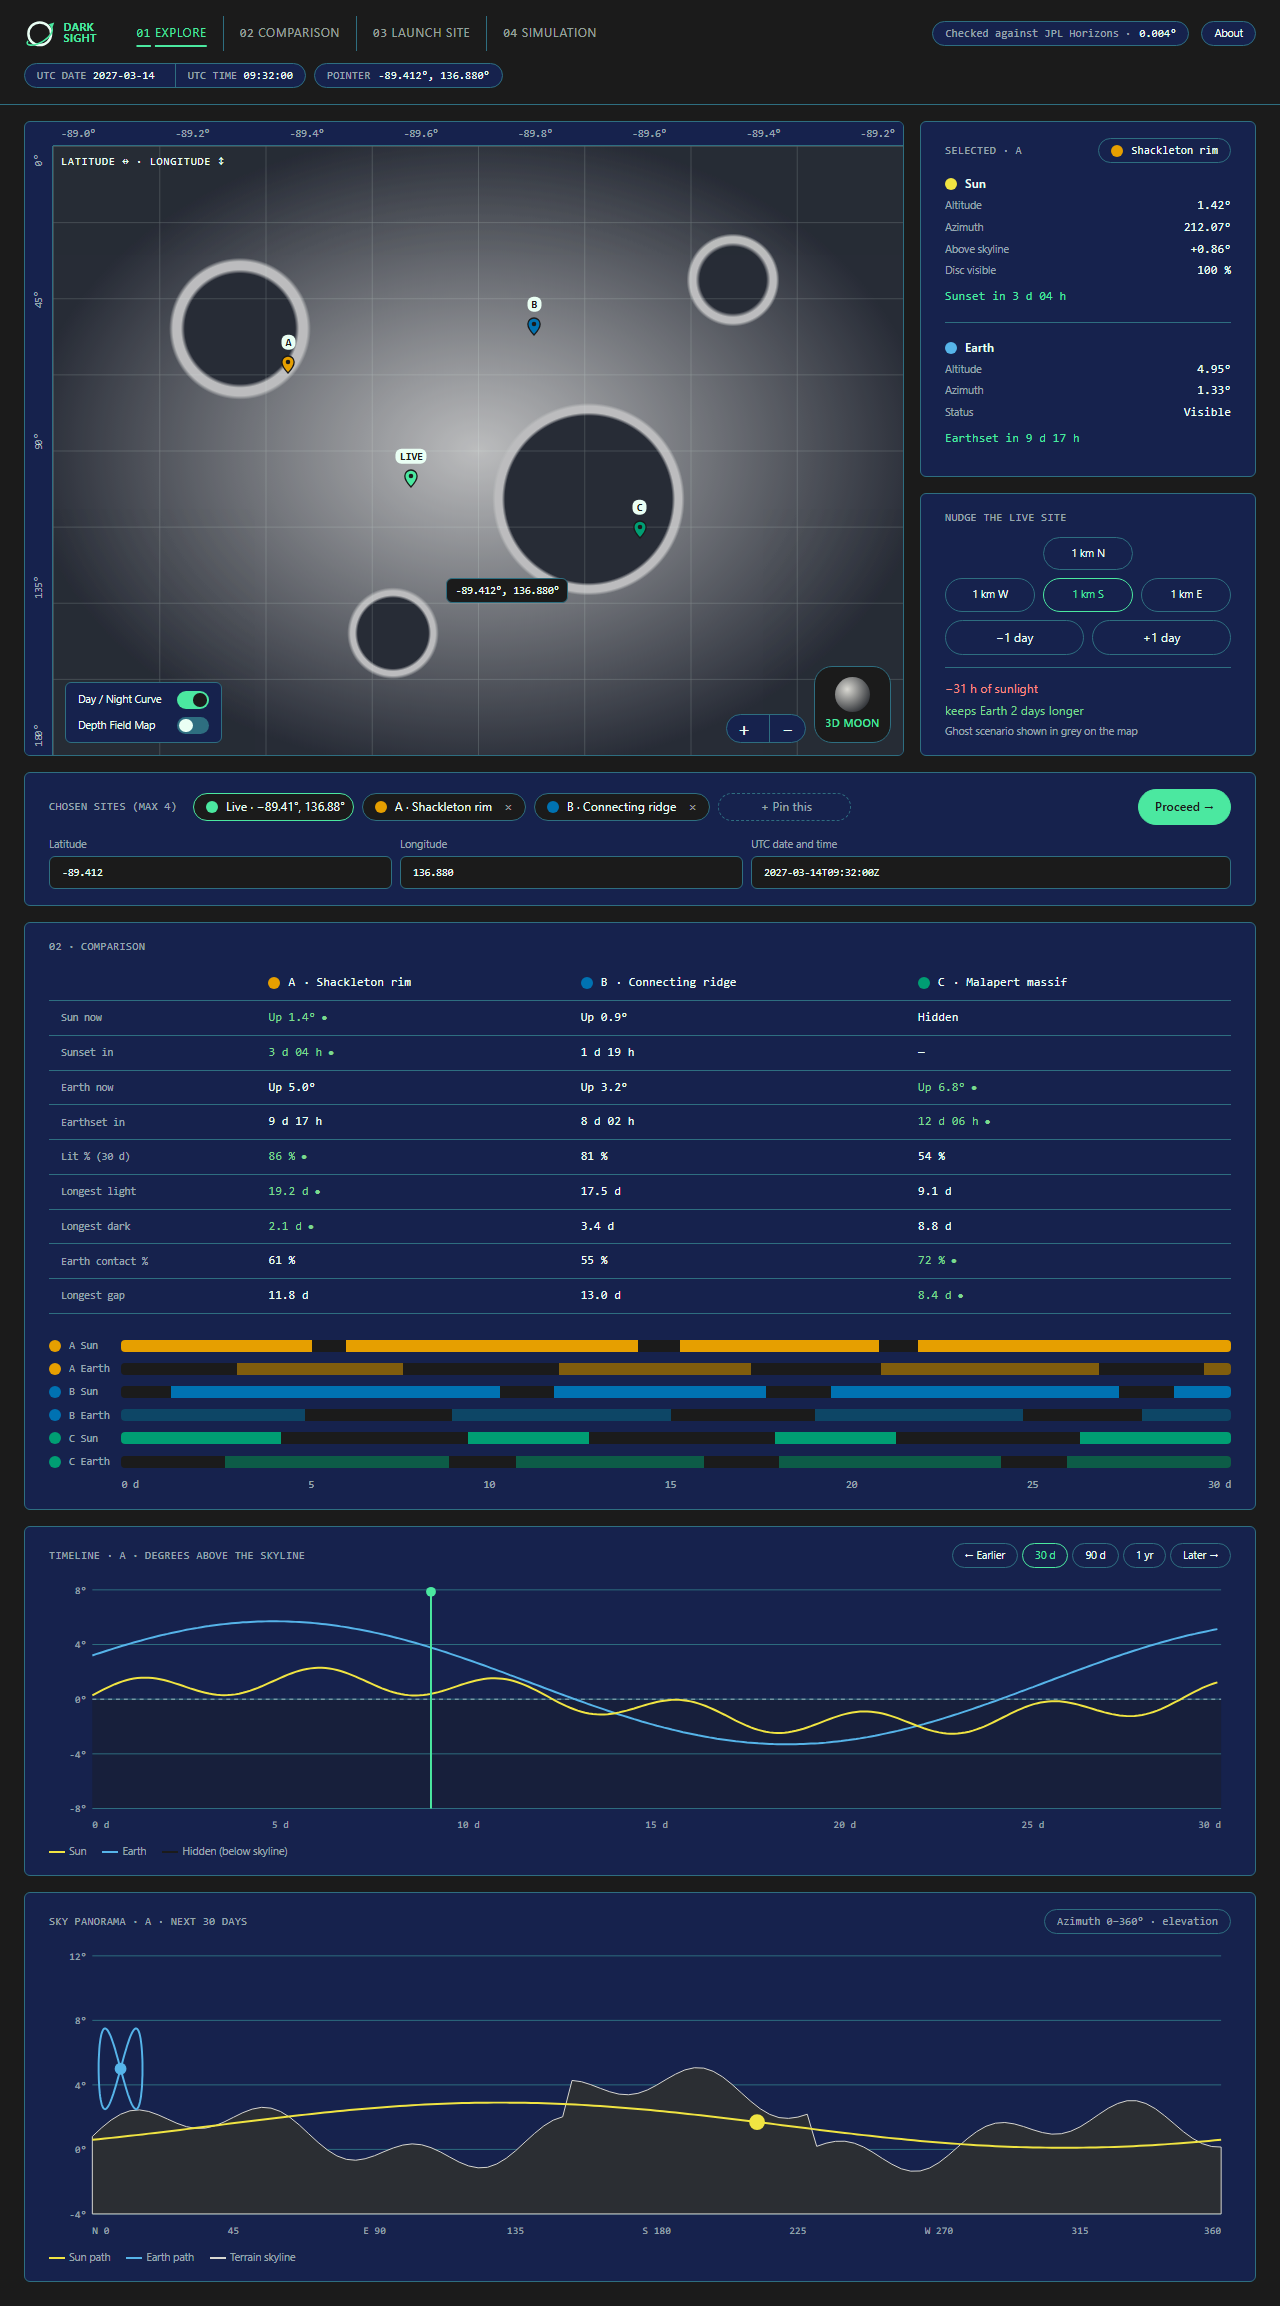
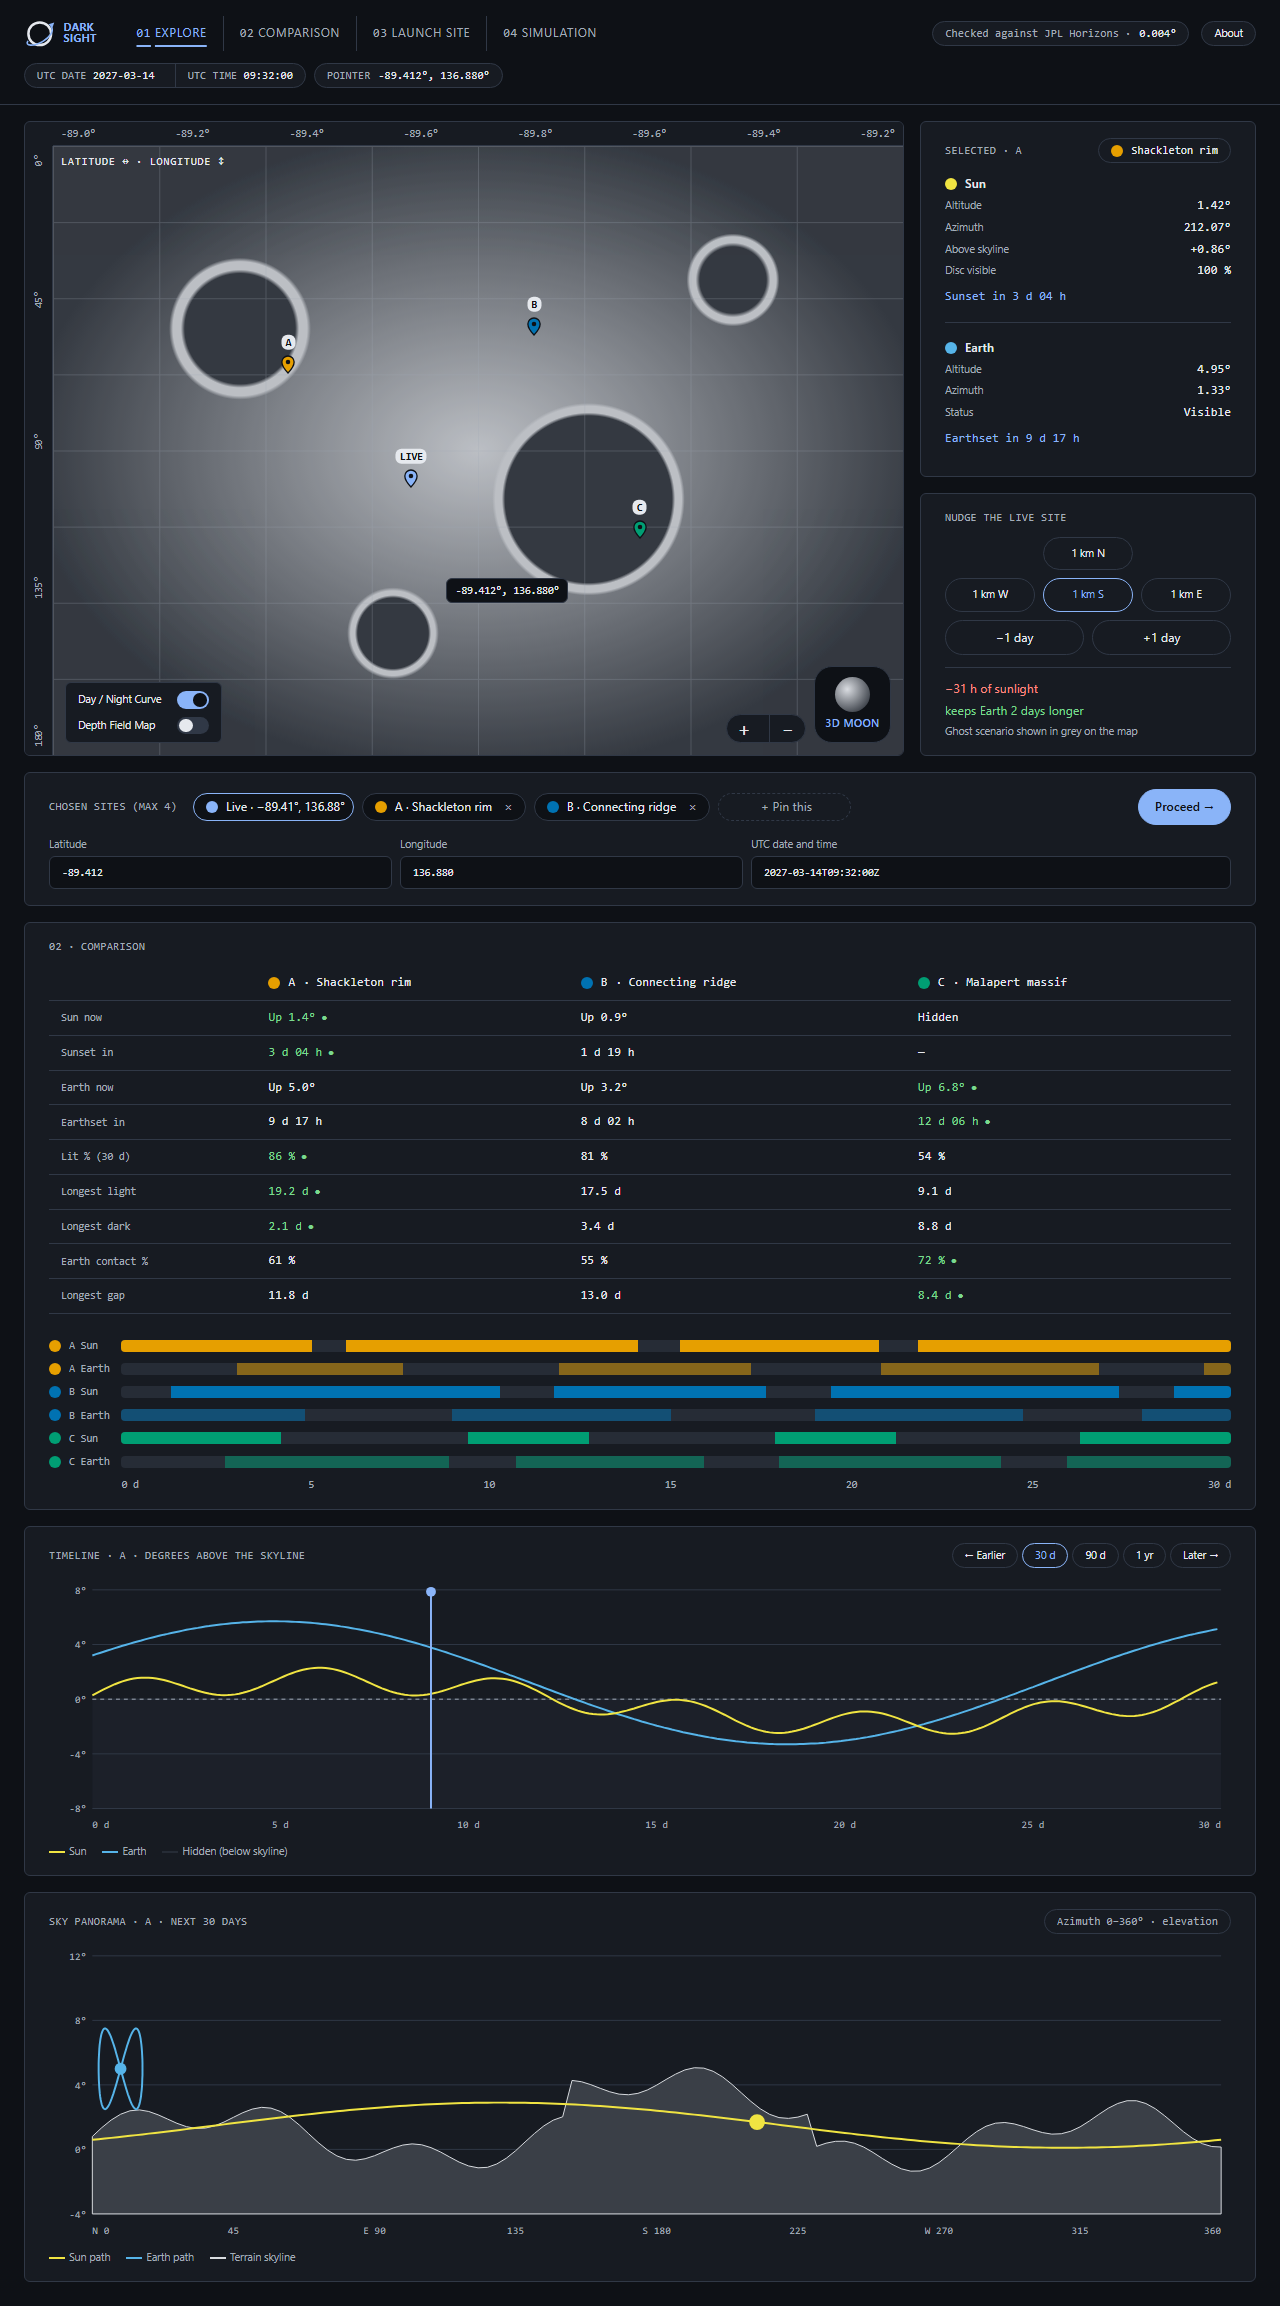
T22: recolour the design with main's theme.css values
mockup.html now uses the colours in web/src/ui/theme.css on main;
layout, sizes and mock data are unchanged. All 14 pictures re-exported,
design.md palette and contrast numbers updated. Scenario B's solid
strip is 2.71:1 on --dark #262c36, noted for T19.

diff --git a/docs/design/mockup.html b/docs/design/mockup.html
@@ -28,27 +28,27 @@
 <style>
 :root {
   color-scheme: dark;
-  /* Brief token -> contract variable */
-  --bg: #1B1B1B;          /* bg/base */
-  --panel: #16224D;       /* bg/surface (Midnight Lapis) */
-  --panel-2: #1A2D55;     /* derived: 85 % bg/surface + 15 % accent/deep */
-  --border: #2E6E80;      /* accent/deep (Deep Hanada) */
-  --text: #EAFFF4;        /* text/primary, accent/soft (Minted Bamboo) */
-  --muted: rgba(234, 255, 244, 0.6); /* text/muted */
-  --accent: #4BE8A0;      /* accent/primary (Clear Bamboo) */
-  --ok: #7BD88F;          /* no brief token */
-  --warn: #F2C94C;        /* no brief token */
-  --bad: #FF8A80;         /* no brief token */
+  /* Colours: the values in web/src/ui/theme.css on main (T00), so the pictures match the site */
+  --bg: #0e1116;
+  --panel: #171b22;
+  --panel-2: #1f2530;
+  --border: #303846;
+  --text: #e6e9ee;
+  --muted: #a3acb9;
+  --accent: #8ab4f8;
+  --ok: #7bd88f;
+  --warn: #f2c94c;
+  --bad: #ff8a80;
   --scn-a: #E69F00;       /* fixed */
   --scn-b: #0072B2;       /* fixed */
   --scn-c: #009E73;       /* fixed */
-  --scn-ghost: #7D8899;   /* no brief token */
+  --scn-ghost: #8a8f98;
   --sun: #F0E442;         /* fixed */
   --earth: #56B4E9;       /* fixed */
-  --lit: #EAFFF4;         /* accent/soft */
-  --dark: #1B1B1B;        /* bg/base. Not accent/deep: scn-b on #2E6E80 is 1.11:1 (docs/design.md) */
-  --terrain-lo: #2B2E33;  /* no brief token */
-  --terrain-hi: #D9D8D2;  /* no brief token */
+  --lit: #e6e9ee;
+  --dark: #262c36;
+  --terrain-lo: #3a3f47;
+  --terrain-hi: #d9dce1;
   --space-1: 4px;
   --space-2: 8px;
   --space-3: 12px;

diff --git a/docs/design.md b/docs/design.md
@@ -1,12 +1,14 @@
 # Design: DARKSIGHT
 
-**Mood:** a quiet mission-control screen at night: near-black page, midnight-blue panels, one
-bamboo-green accent, thin lines, pill buttons and lots of empty space.
+**Mood:** a quiet mission-control screen at night: near-black page, slate panels, one soft-blue
+accent, thin lines, pill buttons and lots of empty space.
 
 **Sources:** the DARKSIGHT brief (pasted by P5), `tasks/Quarterly Company News.pdf` (logo,
 hero, wireframes for 01 Explore, 02 Comparison and 04 Simulation, Launch Site, flight sequence,
 report) and `tasks/Untitled.svg` (13 frames of the earlier "lune" design, red on navy). Where
-they disagree, the brief wins on colour and the spec wins on behaviour. The SVG frames are the
+they disagree, the spec wins on behaviour. **Colours come from `web/src/ui/theme.css` on
+`main`**, not from the brief, so the pictures match what the modules already draw; layout, type
+and the mock data stay as designed. The SVG frames are the
 reference for what goes inside a card (the compare cards and the telemetry panel), recoloured
 to the brief.
 
@@ -30,31 +32,31 @@ Mock-up numbers are made up. Nobody copies an angle or a time from a picture int
 
 ## Palette
 
-| Variable | Value | Brief token |
-|---|---|---|
-| `--bg` | `#1B1B1B` | bg/base |
-| `--panel` | `#16224D` | bg/surface (Midnight Lapis) |
-| `--panel-2` | `#1A2D55` | none: 85 % bg/surface + 15 % accent/deep |
-| `--border` | `#2E6E80` | accent/deep (Deep Hanada) |
-| `--text` | `#EAFFF4` | text/primary, accent/soft (Minted Bamboo) |
-| `--muted` | `rgba(234, 255, 244, 0.6)` | text/muted |
-| `--accent` | `#4BE8A0` | accent/primary (Clear Bamboo) |
-| `--ok` | `#7BD88F` | none |
-| `--warn` | `#F2C94C` | none |
-| `--bad` | `#FF8A80` | none |
-| `--scn-a` `--scn-b` `--scn-c` | `#E69F00` `#0072B2` `#009E73` | fixed |
-| `--scn-ghost` | `#7D8899` | none |
-| `--sun` `--earth` | `#F0E442` `#56B4E9` | fixed |
-| `--lit` | `#EAFFF4` | accent/soft |
-| `--dark` | `#1B1B1B` | bg/base. **Changed from `#2E6E80`**, see below |
-| `--terrain-lo` `--terrain-hi` | `#2B2E33` `#D9D8D2` | none: lunar greys |
-| `--radius` | `6px` | |
-| `--space-1` … `--space-5` | 4, 8, 12, 16, 24 px | |
+Every colour is the value `main`'s `theme.css` has today. The brief's tokens (Midnight Lapis,
+Clear Bamboo, Deep Hanada) are no longer used.
 
-**Why `--dark` is not Deep Hanada.** `--dark` is the empty part of a strip. Against `#2E6E80`
-the blue scenario B is 1.11 : 1, so B's strips vanish. Against `#1B1B1B` every solid strip
-passes 3 : 1 (B 3.32, C 5.03, A 7.65). T19's `theme.css` currently has `#2E6E80`: change it to
-match.
+| Variable | Value |
+|---|---|
+| `--bg` | `#0e1116` |
+| `--panel` | `#171b22` |
+| `--panel-2` | `#1f2530` |
+| `--border` | `#303846` |
+| `--text` | `#e6e9ee` |
+| `--muted` | `#a3acb9` |
+| `--accent` | `#8ab4f8` |
+| `--ok` `--warn` `--bad` | `#7bd88f` `#f2c94c` `#ff8a80` |
+| `--scn-a` `--scn-b` `--scn-c` | `#E69F00` `#0072B2` `#009E73` (fixed) |
+| `--scn-ghost` | `#8a8f98` |
+| `--sun` `--earth` | `#F0E442` `#56B4E9` (fixed) |
+| `--lit` | `#e6e9ee` |
+| `--dark` | `#262c36` |
+| `--terrain-lo` `--terrain-hi` | `#3a3f47` `#d9dce1` |
+| `--radius` | `6px` |
+| `--space-1` … `--space-5` | 4, 8, 12, 16, 24 px |
+
+**Strips on `--dark`.** Solid scenario strips against `#262c36`: A 6.23, C 4.10, **B 2.71**,
+below the 3 : 1 that WCAG asks of graphics. The letter beside each strip keeps B readable; a
+darker `--dark` (for example `#1B1B1B`, B 3.32) would fix it. That is T19's call.
 
 ## Type
 
@@ -86,15 +88,15 @@ over its background first). All text pairs pass 4.5 : 1:
 
 | Text | on `--bg` | on `--panel` | on `--panel-2` |
 |---|---|---|---|
-| `--text` | 16.49 | 14.68 | 12.97 |
-| `--muted` | 6.65 | 6.14 | 5.68 |
-| `--accent` | 10.95 | 9.74 | 8.61 |
-| `--ok` | 9.89 | 8.80 | 7.78 |
-| `--warn` | 10.86 | 9.66 | 8.54 |
-| `--bad` | 7.55 | 6.71 | 5.93 |
+| `--text` | 15.54 | 14.19 | 12.64 |
+| `--muted` | 8.25 | 7.53 | 6.71 |
+| `--accent` | 8.97 | 8.19 | 7.30 |
+| `--ok` | 10.86 | 9.92 | 8.83 |
+| `--warn` | 11.92 | 10.88 | 9.69 |
+| `--bad` | 8.28 | 7.56 | 6.74 |
 
-`--bg` text on `--accent` (primary button) 10.95; `--bg` on `--text` (hero button, tooltip, pin
-label) 16.49. Disabled controls at 40 % fall below 4.5 : 1; WCAG exempts them.
+`--bg` text on `--accent` (primary button) 8.97; `--bg` on `--text` (hero button, tooltip, pin
+label) 15.54. Disabled controls at 40 % fall below 4.5 : 1; WCAG exempts them.
 
 **Colour blindness** (Machado, Oliveira, Fernandes 2009, severity 1.0; `cvd.png`). CIE76 ΔE
 between scenario colours:
@@ -125,7 +127,7 @@ Values the design needs that the contract doesn't name. Nothing below was given 
    existing colours, but the gradient itself has no name.
 3. **Hero type:** 72 px bold sans and 56 px bold serif. Larger than `--fs-xl`; the serif needs a
    system serif stack (Georgia, 'Times New Roman', serif), and there is no serif variable.
-4. **Half-strength Earth bars** (contract section 6) are 1.72 : 1 for B and 2.18 : 1 for C
+4. **Half-strength Earth bars** (contract section 6) are 1.60 : 1 for B and 2.02 : 1 for C
    against the strip background, below the 3 : 1 that WCAG asks of graphics. Suggest drawing the
    Earth bar at full strength with a hatch, or as a thinner bar.
 5. **Not in the spec**, so not a slot (each needs a spec or index.html change, or it stays out):
@@ -140,7 +142,7 @@ Values the design needs that the contract doesn't name. Nothing below was given 
    - Brief: up to 4 chosen sites. Spec F5: live plus 3 pinned. The pictures show both at once:
      4 chips = live + A, B, C.
    - Brief: every pin `#4BE8A0`. Contract: pins use the fixed scenario colours. The pictures use
-     the scenario colours; only the live pin is green.
+     the scenario colours; only the live pin uses `--accent`.
    - Brief: an endlessly panning global map with "Google Lunar API". Spec F10: south-pole LOLA
      terrain, top-down camera. The picture shows the rulers, grid, toggles and tile from the brief
      over the spec's terrain.

diff --git a/docs/ai-use/T22.md b/docs/ai-use/T22.md
@@ -5,3 +5,4 @@
 | 2026-11-14 | P5 | Claude Code (Opus 5.5) | Read the brief P5 pasted, `tasks/Quarterly Company News.pdf` (8 pages) and an overview render of `tasks/Untitled.svg`. No Figma link was given, so no Figma calls: followed the fallback in `docs/mcp-and-skills.md` section 3. | P5 supplied the brief, PDF and SVG |
 | 2026-11-14 | P5 | Claude Code (Opus 5.5) | Wrote `docs/design/mockup.html` (contract section 6 names only; literals marked "NOT IN CONTRACT") and exported the 8 slot pictures, `desktop.png`, `phone.png`, `components.png`, `loading.png`, `hero.png`, `cvd.png` with headless Edge, cropped with .NET System.Drawing. Made-up mock numbers. | P5 to look at every picture and get the team's yes in the chat |
 | 2026-11-14 | P5 | Claude Code (Opus 5.5) | Script for WCAG 2.1 contrast and Machado 2009 colour-blind ΔE. Found `--dark = #2E6E80` hides scenario B's strips (1.11 : 1) and changed it to `#1B1B1B` in the design. Wrote `docs/design.md` with the palette, type, checks and the list for P1. | P5 to check the numbers and the `--dark` change; T19 to copy it |
+| 2026-11-14 | P5 | Claude Code (Opus 5.5) | Recoloured `mockup.html` with the colour values from `main`'s `web/src/ui/theme.css` (layout, sizes and mock data unchanged), re-exported all 14 pictures with headless Edge, recomputed contrast and rewrote the palette in `docs/design.md`. Found scenario B's solid strip is 2.71 : 1 on `--dark #262c36`. | P5 to look at the new pictures |
